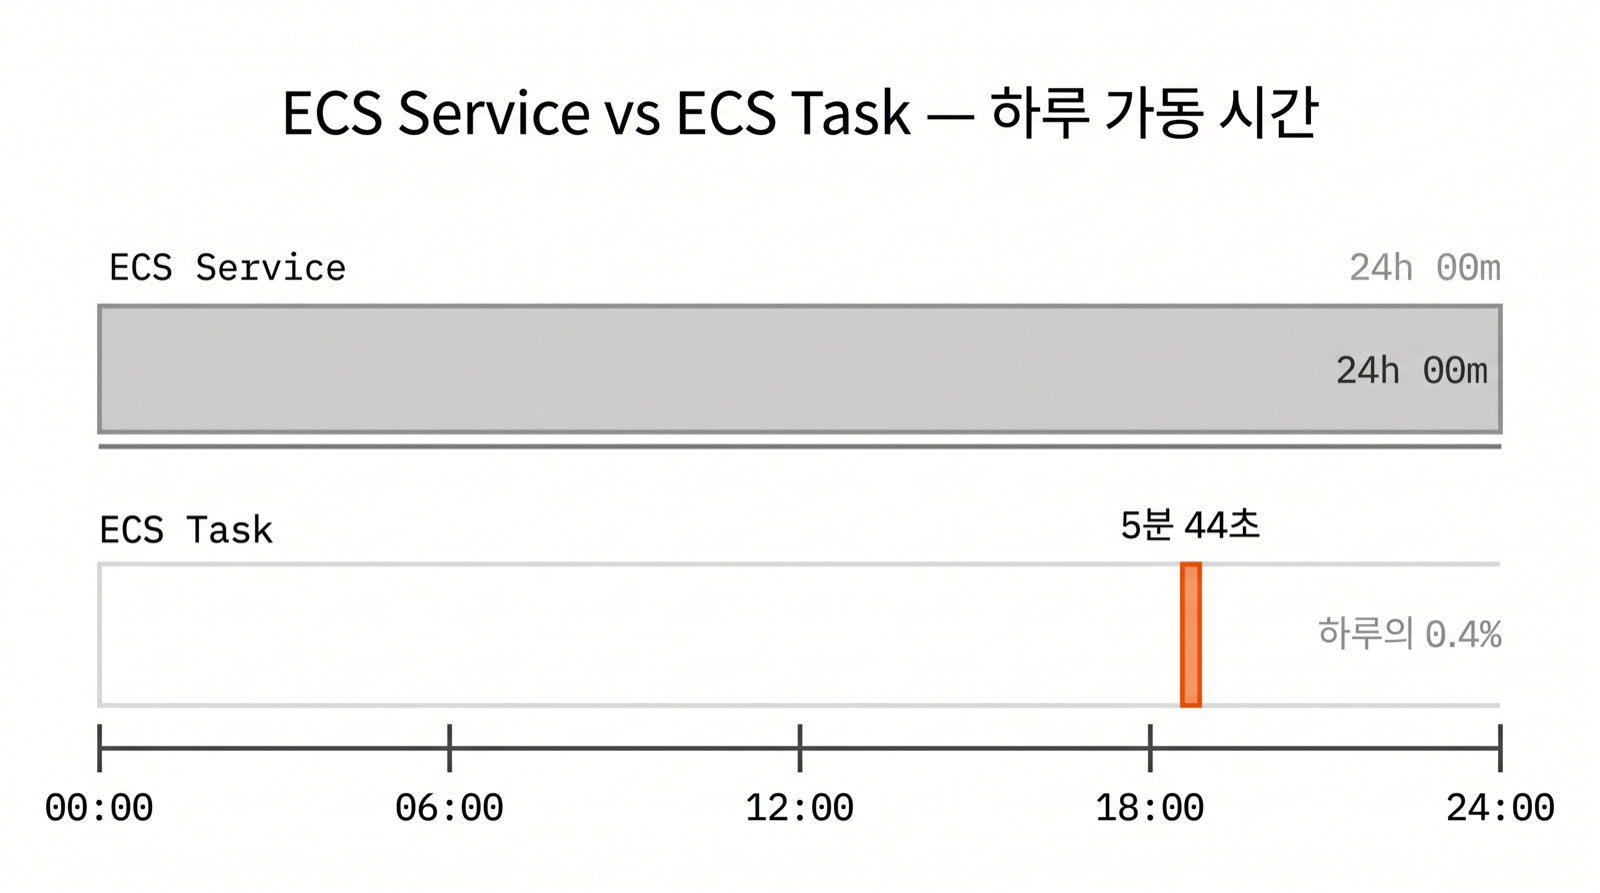
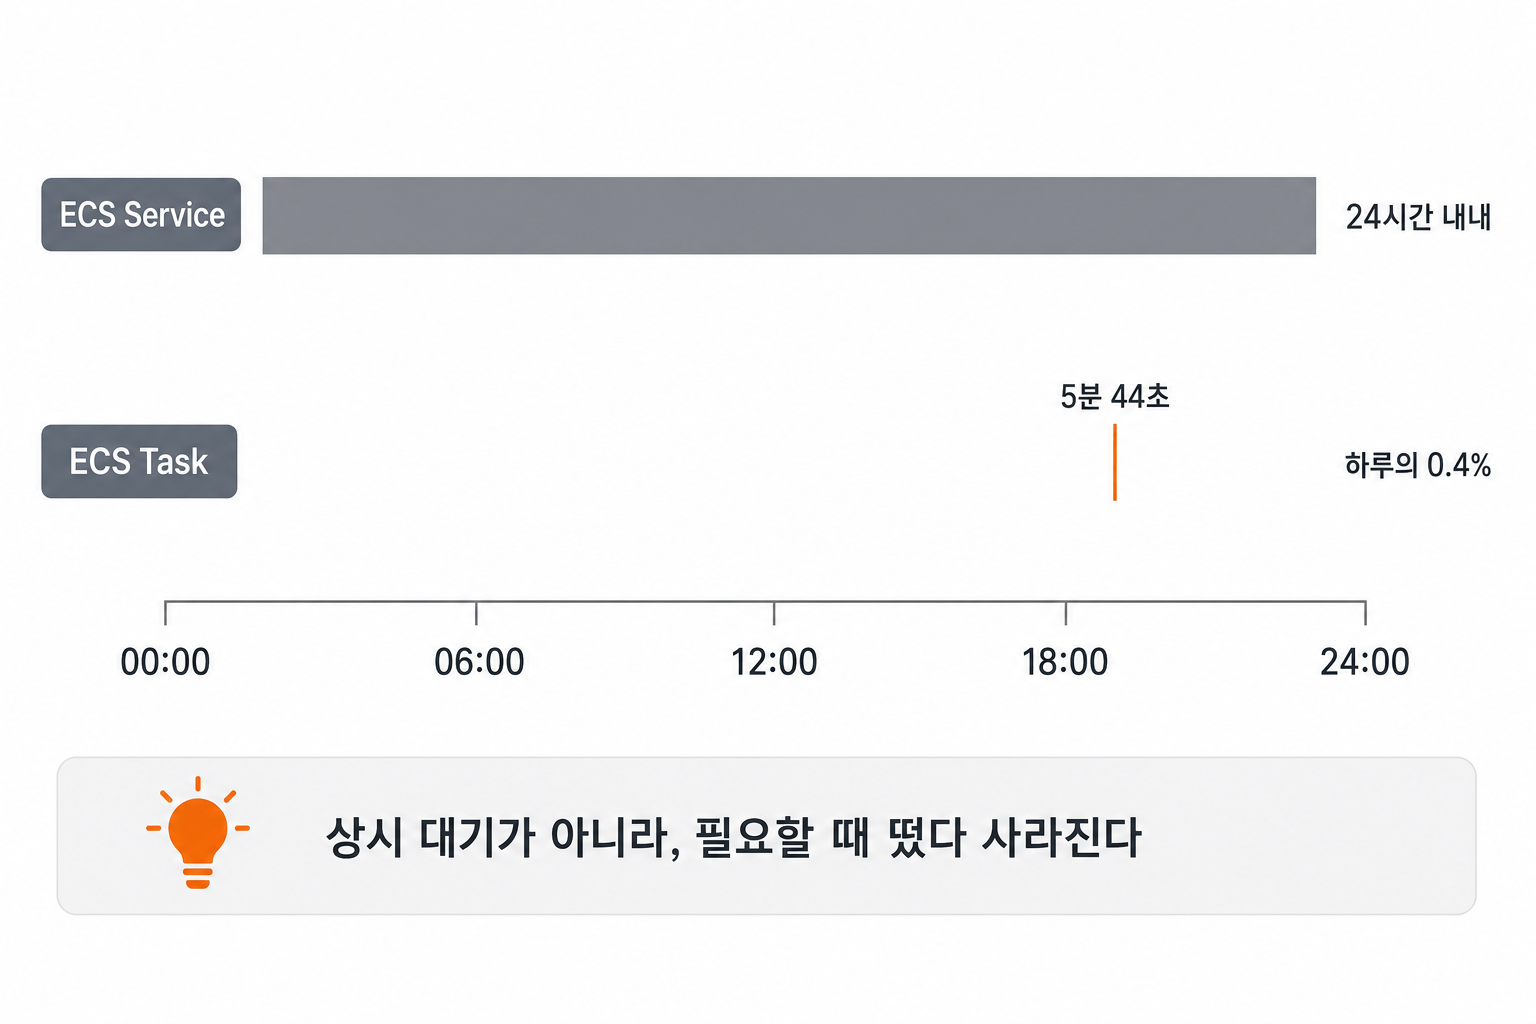
post: 초기 배치 파이프라인 글 — 설계 결정 기록으로 재구성
- 결과·검증·삽질 섹션 제거, 순수 결정 기록(언어·실행 모델·오케스트레이션)으로
- 각 결정에 미래 경계 추가(지금은 SFN, 나중엔 event-driven / 실시간이면 상시 프로세스)
- FMP(US) 제거 → 국내 4소스(BigKinds·KIS·KRX·DART)로, 수집 7→4 재계산
- 이미지 3장 KR-only 새 양식으로 교체, 미사용 다이어그램 2장 삭제

Claude-Session: https://claude.ai/code/session_012EnsTqX2yzo47sWGMwSLz4

diff --git a/_posts/2026-07-15-initial-batch-pipeline.md b/_posts/2026-07-15-initial-batch-pipeline.md
@@ -1,12 +1,12 @@
 ---
-title: ".sync가 컨테이너 실패를 통과시킨 일 배치 파이프라인 — Python 워커와 ECS Task 설계 기록"
+title: "일 배치를 Python 워커와 ECS Task로 시작한 이유 — 언어·실행 모델·오케스트레이션 결정 기록"
 date: 2026-07-15 10:00:00 +0900
 categories: [dev-log, data-pipeline]
 tags: [aws, ecs, step-functions, python]
-description: 하루치 데이터를 raw에서 canonical까지 처리하는 초기 배치 파이프라인을 만들며 언어와 실행 모델을 고른 과정. 그리고 만들면서 알게 된 runTask.sync의 함정.
+description: 하루치 데이터를 raw에서 canonical까지 처리하는 초기 배치 파이프라인을 만들며 언어·실행 모델·오케스트레이션을 고른 과정.
 image:
   path: /assets/img/posts/initial-batch-pipeline/thumbnail.png
-  alt: 초기 배치 파이프라인의 State Machine — 수집 7개 병렬 후 전량 성공 게이트를 거쳐 정제 4개로
+  alt: 초기 배치 파이프라인의 State Machine — 수집 4개 병렬 후 전량 성공 게이트를 거쳐 정제 4개로
 ---
 
 직전 글에서 저장소를 정했다. RDB 대신 S3 레이크를 쓰고, raw와 canonical로 나눠 쌓기로
@@ -61,33 +61,39 @@ boto3            레이크 S3 백엔드
 그런데 동작하는 코드를 기술 스택을 보여주려고 다시 쓰는 건 프로젝트의 문제를 푸는 일이
 아니다. 그건 이력서의 문제지 파이프라인의 문제가 아니었다. 워커는 Python으로 두기로 했다.
 
-## ECS Service가 아니라 ECS Task
+## ECS Service가 아니라 ECS Task가 작업 모델과 맞았다
+
+계속 요청이나 메시지를 기다려야 하는 Consumer·API라면 Service가 맞고, 시작해 처리한 뒤
+종료되는 일회성 작업이면 standalone Task가 보통의 갈림이다.
 
 이 작업은 하루에 한 번 시작해서 정해진 데이터를 처리하고 끝난다. 메시지를 기다리는
 Consumer도 아니고 요청을 받는 API 서버도 아니다. 항상 떠 있는 ECS Service보다, 필요할 때
 생기고 끝나면 사라지는 **standalone Task**가 작업 모델과 맞았다.
 
 다만 이건 모든 데이터 처리를 Task로 하겠다는 뜻은 아니다. 나중에 이벤트를 계속 소비해야
-한다면 그 Consumer는 Service로 두는 게 자연스럽다. 지금 Task가 맡는 건 일 배치와, 앞으로
-생길 백필·재처리 경로다.
+한다면 그 Consumer는 Service로 두는 게 자연스럽다. 배치 주기로 감당이 안 되는 실시간 소스가
+생기면 그때 상시 프로세스로 갈아탄다. 지금 미리 짓지는 않는다. 지금 Task가 맡는 건 일
+배치와, 앞으로 생길 백필·재처리 경로다.
 
 ![ECS Service와 ECS Task의 하루 가동 시간 비교](/assets/img/posts/initial-batch-pipeline/task-vs-service-uptime.png)
 _하루 24시간 중 실제로 도는 건 5분 44초, 나머지 23시간 54분은 켜둘 이유가 없다_
 
 ## Scheduler가 Task를 직접 부르면 안 되었나
 
-EventBridge Scheduler는 ECS Task를 직접 실행할 수 있다. Task가 하나뿐이면 Step Functions는
-군더더기다. 그래서 처음엔 그렇게 갈 생각이었다.
+실행할 Task가 하나이고 앞뒤 조건이 없다면 EventBridge Scheduler에서 ECS Task를 직접
+부르는 게 정석에 가깝다. 작업의 순서·분기·상태를 관리해야 하는 순간 Step Functions로
+넘기는 게 보통의 경계다. 처음엔 전자라고 생각했다.
 
-그런데 수집 대상을 세어보니 7개였다.
+그런데 수집 대상을 세어보니 4개였다.
 
 ```
-FMP        뉴스 · 가격 · ETF 구성종목(US)
 BigKinds   뉴스
 KIS        가격
 KRX        ETF 구성종목(KR)
 DART       공시
 ```
+
+수집 4개는 이미 그 경계를 넘은 셈이었다.
 
 이걸 순차로 돌리면 느린 벤더 하나가 전체를 잡아먹는다. 그리고 하나가 실패했을 때 나머지를
 살릴지 말지를 어딘가는 판단해야 한다. Scheduler에는 그런 걸 넣을 자리가 없다. 분기도,
@@ -96,134 +102,28 @@ DART       공시
 그래서 실행 흐름을 Step Functions에 뒀다. **워커는 데이터를 처리하고, Step Functions는
 무엇을 어떤 순서로 실행할지 관리한다.**
 
-Standard와 Express 중에서는 Standard다. Express는 실행 시간이 5분으로 제한되고 `.sync`
-통합을 지원하지 않는다. ECS Task가 끝날 때까지 기다려야 하는 구조라 Express로는 아예
-안 된다.
+Standard와 Express의 경계도 분명했다. Express는 실행 시간이 최대 5분이고 `.sync` 통합을
+지원하지 않는다. ECS Task가 끝날 때까지 기다려야 하는 구조라 Express는 배제하고 Standard를
+골랐다.
 
-## 만들면서 .sync의 실패 판정과 전체 스캔의 비용을 알았다
+지금은 SFN으로 충분하다. SFN이 진짜 값하는 건 이종 서비스가 얽히고 분기·배리어·콜백처럼
+조율이 어려울 때지 데이터가 많을 때가 아닌데, 지금 edge는 같은 이미지가 선형으로 도는
+수준이다. 그래서 SFN은 그 강점 때문이라기보다 중앙에서 흐름을 한눈에 보려고 쓰고, 스케줄을
+하루 한 번에서 분 단위로 좁히는 미니배치까지는 이 구조로 간다.
 
-### 실패가 두 종류다
-
-Task가 실패하는 방식은 하나가 아니었다. 첫 실행들이 줄줄이 깨지면서 알았다.
-
-처음 만난 건 이거였다.
-
-```
-ResourceInitializationError: unable to pull secrets or registry auth:
-  failed to fetch secret .../fmp/api-key-... from secrets manager:
-  ResourceNotFoundException: can't find the specified secret value
-  for staging label: AWSCURRENT
-
-exitCode = None   lastStatus = STOPPED
-```
-
-**컨테이너가 아예 안 떴다.** 시크릿을 못 읽어서 초기화 단계에서 죽었다. 그래서
-`exitCode`가 `None`이다 — 종료 코드가 있으려면 프로세스가 시작은 했어야 한다. 이건
-Task 레벨 실패라 `.sync`가 알아서 잡아준다. `Catch`로 떨어진다.
-
-문제는 다른 종류다. **Task는 정상적으로 떴고 컨테이너가 non-zero로 죽은 경우**, `.sync`는
-이걸 실패로 안 볼 수 있다. Task를 띄우고 STOPPED까지 가는 게 이 통합의 책임이지, 그 안에서
-프로세스가 뭘 하고 죽었는지는 다른 층의 이야기라서다.
-
-AWS 문서도 여기까지는 말해주지 않는다. `runTask`가 HTTP 200을 주면서 `Failures` 필드가
-비어 있지 않을 때 어떻게 되는지는 명시돼 있는데(그건 `.sync`가 `AmazonECS.Unknown`으로
-실패시킨다), **컨테이너 종료 코드에 대해서는 문서가 침묵한다.** 그래서 확인할 방법이
-없었다.
-
-확실한 건 하나다. `.sync`의 출력 JSON에 `Containers[0].ExitCode`가 그대로 들어온다.
-문서가 안 알려주면 직접 물어보면 된다. 그래서 브랜치마다 Choice를 하나씩 붙여 종료 코드를
-깐다. 11개 전부에. 상태 개수가 늘어나는 건 감수했다. 실패를 못 잡는 것보다는 낫다.
-
-![브랜치 하나가 실패로 끝나는 두 가지 길](/assets/img/posts/initial-batch-pipeline/branch-failure-paths.png)
-_Task가 못 뜨면 `Catch`가, 컨테이너가 죽으면 Choice가 받는다._
-
-### 삽질 — 재시도가 겹쳐서 불렸다
-
-처음엔 Step Functions의 `Retry`를 쓸 생각이었다. 그런데 워커의 HTTP 클라이언트에 이미
-재시도가 있었다.
-
-```python
-RETRY_BACKOFF_SEC = [1, 2, 4]
-
-for backoff in [0, *RETRY_BACKOFF_SEC]:
-    ...
-```
-
-워커는 한 번 실행할 때 최초 1번에 재시도 3번, 총 4번을 부른다. 여기에 Step Functions가
-3번 더 재시도하면 4번 × 4번 = 최대 16번 호출된다. 외부 API 입장에서는 그냥 공격이다.
-
-![두 층 모두 재시도를 켜면 호출이 16번으로 곱해진다](/assets/img/posts/initial-batch-pipeline/retry-layer-explosion.png)
-_층마다 재시도를 켜면 곱셈이 된다 — 그래서 위층을 껐다_
-
-그래서 층마다 책임을 갈랐다.
-
-```
-워커 HTTP        5xx · 네트워크 · 타임아웃 → 3회 재시도 (1s, 2s, 4s)
-                 4xx · 429 → 재시도 없이 즉시 중단
-Step Functions   Retry 없음. 브랜치 실패 판정과 흐름만
-Scheduler        SFN 실행 자체를 못 띄웠을 때만
-```
-
-429에 재시도를 안 하는 건 직관과 반대다. 하지만 429는 "너무 많이 불렀다"는 뜻이라
-다시 부르면 더 맞을 뿐이다. 4xx도 마찬가지로 재시도가 고쳐줄 수 있는 실패가 아니다.
-재시도가 의미 있는 건 5xx와 네트워크 오류뿐이었다.
-
-### 삽질 — 뉴스 실패가 가격 정제까지 막았다
-
-지금은 수집 7개가 전부 성공했을 때만 정제로 넘어간다. 그런데 이건 옳아서가 아니라
-**아직 만드는 중이라 그렇다.** 그리고 이 게이트는 틀렸다.
-
-소스들은 서로 독립이다. BigKinds 뉴스가 실패한 것과 KIS 가격 정제를 돌릴 수 있는지는
-아무 상관이 없다. 그런데 지금 구조는 둘의 실패를 묶어놨다. 뉴스 하나 때문에 멀쩡히 받아온
-가격이 canonical로 못 올라간다. 나중에 가격 변동을 이벤트로 발행하게 되면 더 나빠진다 —
-뉴스가 실패했다고 가격 이벤트를 안 보내는 건 말이 안 된다.
-
-배치 간격이 짧아지면 더 안 맞는다. 하루에 한 번이라 다음 실행까지 24시간을 기다려도
-버틸 만한 거지, 간격이 줄면 전량 성공을 기다리는 게이트는 그냥 병목이다.
-
-그럼에도 지금 이대로 둔 건 손해가 작기 때문이다. 정제는 특정 run이 아니라 레이크 전체를
-훑는다. 그래서 어제 절반만 받다 죽은 raw도 오늘 성공한 실행이 같이 승격시킨다. 게이트는
-**실행 안에서의 순서 제어**지 데이터 격리가 아니라서, 데이터가 사라지지는 않고 늦어질
-뿐이다.
-
-즉 지금 구조는 게이트의 조악함을 전체 스캔으로 메우고 있다. 둘은 세트다.
-
-### 삽질 — 전체 스캔이 어제 것까지 매번 다시 읽고 있었다
-
-정제는 매번 `raw/` 전체를 나열하고 전부 다시 읽는다. raw는 run_id별로 계속 append되고
-절대 줄지 않으니, 어제 것도 지난달 것도 매일 다시 읽는다는 뜻이다. 지금은 raw가 작아서
-안 보이지만 시간이 갈수록 선형으로 느려진다.
-
-멱등성을 전체 스캔으로 사고 있는 셈이다. 어느 run에서 돌든 결과가 같은 건 매번 전부 다시
-보기 때문이다. 정체성 키로 병합하니 같은 걸 몇 번 봐도 결과는 하나로 수렴한다. 맞는
-동작이지만 비싸다.
-
-그래서 다음에 손볼 곳이 두 군데이고, 둘은 붙어 있다.
-
-- **게이트를 소스별로 끊는다.** 뉴스 실패가 가격을 막지 않게.
-- **정제를 이번 run의 raw만 보게 한다.** 전체 스캔을 걷어내고 증분으로.
-
-문제는 이 둘을 같이 하면 안전망이 사라진다는 것이다. 지금은 실패한 런의 raw를 다음 성공
-실행이 주워가는데, run 스코프로 좁히면 아무도 안 줍는다. 실패한 수집의 raw는 고아가 된다.
-
-여기는 자동화하지 않기로 했다. 실패는 이미 SNS로 알람이 오고 로그에 남으니, 고아가 생기면
-사람이 보고 해당 run을 수동으로 다시 돌린다. 커서를 남기거나 주기적으로 전체를 스윕하는
-방법도 있지만, 하루 한 번 도는 배치에 그만한 기계를 붙일 이유를 아직 못 찾았다. 재실행
-손잡이(`--input-run-id`, `--from`/`--to`)는 이미 워커에 있다.
-
-다만 `--input-run-id`는 지금 **재검증만 하고 canonical을 쓰지 않는다.** 전체 런만
-authoritative라고 정해뒀기 때문이다. 수동 재실행으로 고아를 승격시키려면 이 의미부터
-바꿔야 한다.
+소비자가 늘고 주기가 섞이면 그때 event-driven으로 넘어갈 생각이다. 수집이 끝났다고 이벤트를
+하나 쏘고 처리가 그걸 구독해서 도는 식이다. 지금은 소비자가 하나라 중앙 배리어가 더 편하고,
+그래서 아직은 SFN이다.
 
 ## 그래서 초기 파이프라인은 이렇게 되었다
 
 ![초기 배치 파이프라인 State Machine](/assets/img/posts/initial-batch-pipeline/pipeline-statemachine.png)
-_수집 7개가 동시에 돌고, 전부 성공해야 정제 4개로 넘어간다._
+_수집 4개가 동시에 돌고, 전부 성공해야 정제 4개로 넘어간다._
 
-수집 7개인데 정제가 4개인 게 보일 것이다. 빠진 둘은 ETF 구성종목이다. **정제 스텝은
-이미 있는데 State Machine에 안 걸려 있다.** FMP·KRX 두 벤더의 이형 스키마를 공통 구성종목
-fact로 정규화하는 코드가 워커에 들어 있고 CLI로는 돌아가는데, 스케줄에는 없다. 그래서
-지금 ETF는 raw까지만 쌓이고 canonical로 승격되지 않는다.
+수집한 ETF 구성종목이 정제로 넘어가지 않는 게 보일 것이다. **정제 스텝은 이미 있는데
+State Machine에 안 걸려 있다.** KRX의 구성종목 스키마를 공통 구성종목 fact로 정규화하는
+코드가 워커에 들어 있고 CLI로는 돌아가는데, 스케줄에는 없다. 그래서 지금 ETF는 raw까지만
+쌓이고 canonical로 승격되지 않는다.
 
 워커에 스텝을 추가하는 것과 그게 실제로 돌게 하는 건 별개였다. 실행 흐름을 Step Functions에
 둔 대가이기도 하다 — 스텝은 파이썬으로 늘리는데 배선은 테라폼에서 해야 하니, 한쪽만 하고
@@ -256,60 +156,6 @@ Step Functions에 데이터를 넘기지는 않는다. `run_id`만 넘기고 워
 읽고 쓰기 때문에 API 키가 필요 없고, 모든 task definition이 같은 role을 공유한다. 새로
 만들 이유가 없어서 안 만들었다.
 
-## 7월 13일 네 번 실패 뒤 14일 첫 성공을 확인했다
-
-첫 술에 배부르진 않았다. 7월 13일에 네 번 돌려서 네 번 다 실패했고, 고친 뒤 14일에
-두 번 성공했다. 아래는 그중 마지막 실행이다.
-
-```
-run_id     verify-etf-20260714T092622Z
-시각        2026-07-14 18:26:22 → 18:32:06 (KST)
-소요        5분 44초
-브랜치      12개 전부 succeeded, exit_code 0
-```
-
-수집 결과는 이렇다.
-
-| 소스 | 데이터셋 | 받음 | 저장 |
-| --- | --- | ---: | ---: |
-| FMP | stock_news | 166 | 144 |
-| BigKinds | stock_news | 1,295 | 1,295 |
-| FMP | price_daily | 27 | 27 |
-| KIS | price_daily | 36 | 36 |
-| FMP | financial_statements | 324 | 324 |
-| DART | financial_statements | 1,430 | 1,430 |
-| DART | disclosures | 0 | 0 |
-| FMP | etf_holdings | 2,629 | 2,629 |
-| | **합계** | **5,907** | **5,885** |
-
-숫자보다 재밌는 건 안 맞는 칸들이다.
-
-**FMP 뉴스가 166건 받아 144건 저장했다.** 22건이 준 건 아니고, 같은 기사가 여러 종목
-질의에 걸린 것이다. 기사를 버리지 않고 "이 기사는 이 종목으로도 걸렸다"는 mention만
-기존 레코드에 합친다. 어느 종목으로 걸렸는지는 질의한 쪽만 아는 정보라 raw에서 보존해야
-한다.
-
-**DART 공시가 0건인데 성공이다.** 그날 공시가 없었다. 0건과 실패는 다르다 — 이걸 구분
-못 하면 조용한 실패를 성공으로 읽게 된다.
-
-**BigKinds가 1,295건 전부 저장했는데 그 안에 절단이 둘 있다.** 삼성전자와 SK하이닉스가
-페이지 상한(5)에 걸려 창이 잘렸다. 로그에는 `kind: truncation`으로 남았지만 브랜치는
-성공이다. 자주 나는 절단으로 파이프라인 전체를 세우지 않기로 한 결과다. 대신 잘렸다는
-사실은 로그에 남아서, 구간을 좁혀 다시 돌리면 채울 수 있다.
-
-**ETF 구성종목을 2,629건 받았다.** 이 실행의 이름이 `verify-etf`인 이유다. 그런데
-앞에서 적었듯 ETF는 정제 브랜치가 State Machine에 없다. **저 2,629건은 지금 raw에만
-있고 canonical에 없다.** 수집이 되는 걸 확인했으니 다음은 배선이다.
-
-## 배운 것
-
-이 파이프라인이 남긴 건 두 가지다. 하나는 `.sync`가 컨테이너 종료 코드를 통과시키는
-한계 — 그래서 브랜치마다 Choice를 박아 `ExitCode`를 직접 깠다. 다른 하나는 게이트의
-조악함을 전체 스캔이 메우는 구조 — raw는 절대 안 줄고 매일 다시 읽힌다.
-
-둘은 지금 세트로 버티고 있다. `--input-run-id`가 canonical을 쓰도록 바꾸고 정제를
-증분으로 좁히는 순간 같이 풀어야 한다.
-
 ## 아직 해결하지 않은 것
 
 **처리 단위가 run 전체다.** 워커는 `run(storage, run_id)` 형태로 한 번에 한 실행분을
@@ -323,11 +169,6 @@ storage를 주입받아서 ECS도 Step Functions도 모른다. 백엔드가 `loc
 **같은 날짜를 두 번 돌리면 어떻게 되는가.** raw는 run_id별로 계속 쌓이도록 일부러 그렇게
 만들었다. 중복 제거는 정제가 맡는다. 그런데 정제가 정말 멱등한지, 두 번 돌린 결과가 한 번
 돌린 것과 같은지는 아직 제대로 확인하지 않았다.
-
-**게이트를 소스별로 끊고, 정제를 증분으로 바꿔야 한다.** 위에 적은 대로 둘은 세트다.
-전체 스캔을 걷어내는 순간 실패한 런의 raw를 주울 사람이 없어지니, 알람과 수동 재실행이
-실제로 굴러가는지부터 확인해야 한다. `--input-run-id`가 canonical을 쓰도록 바꾸는 것도
-여기 딸린 일이다.
 
 **ETF 구성종목 정제와 KRX 수집을 State Machine에 붙여야 한다.** 코드는 이미 있다.
 
